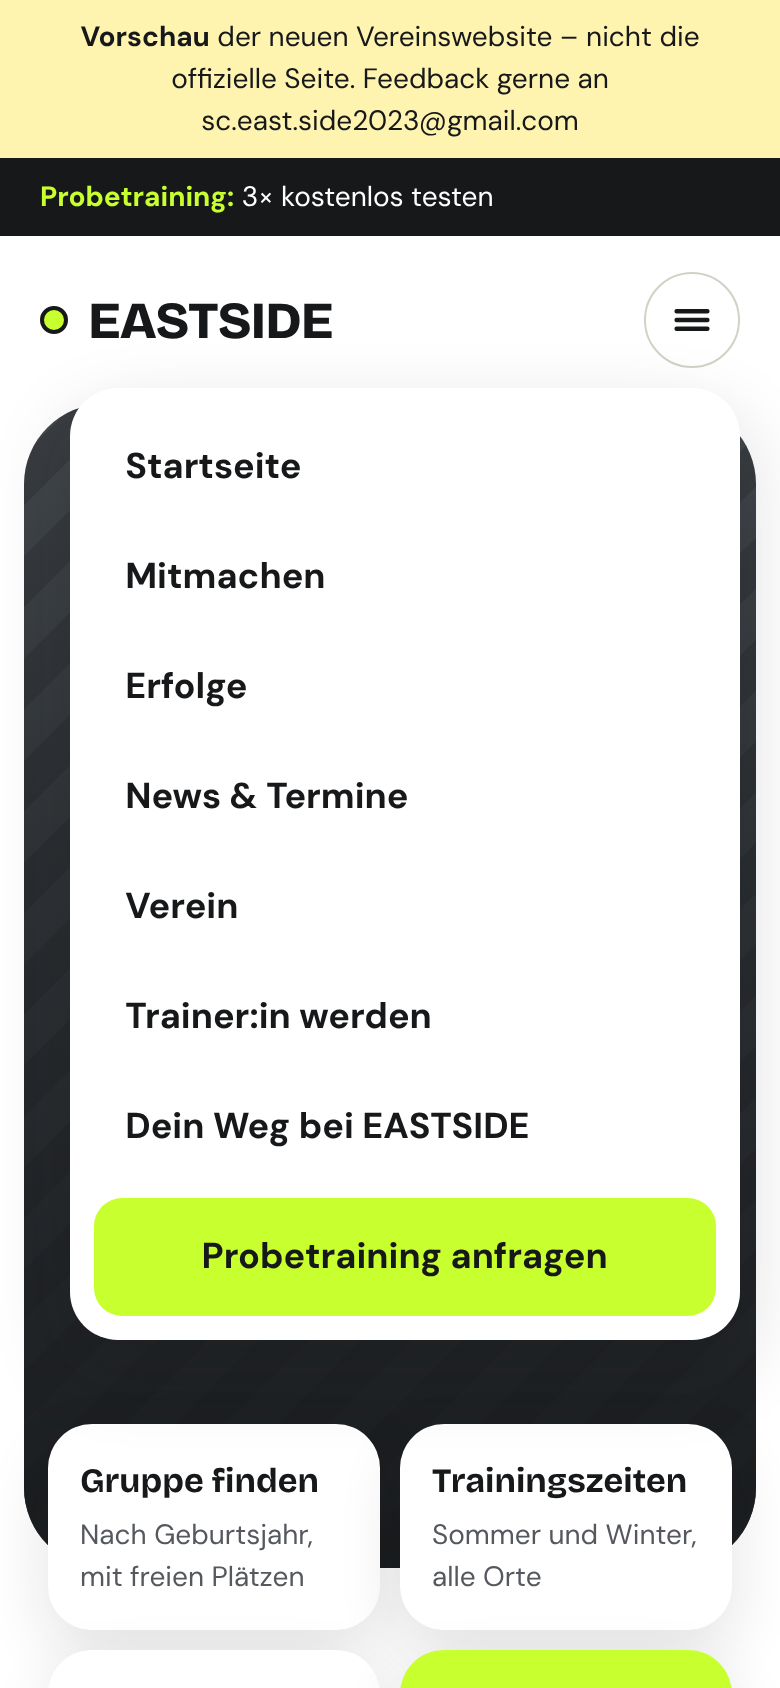
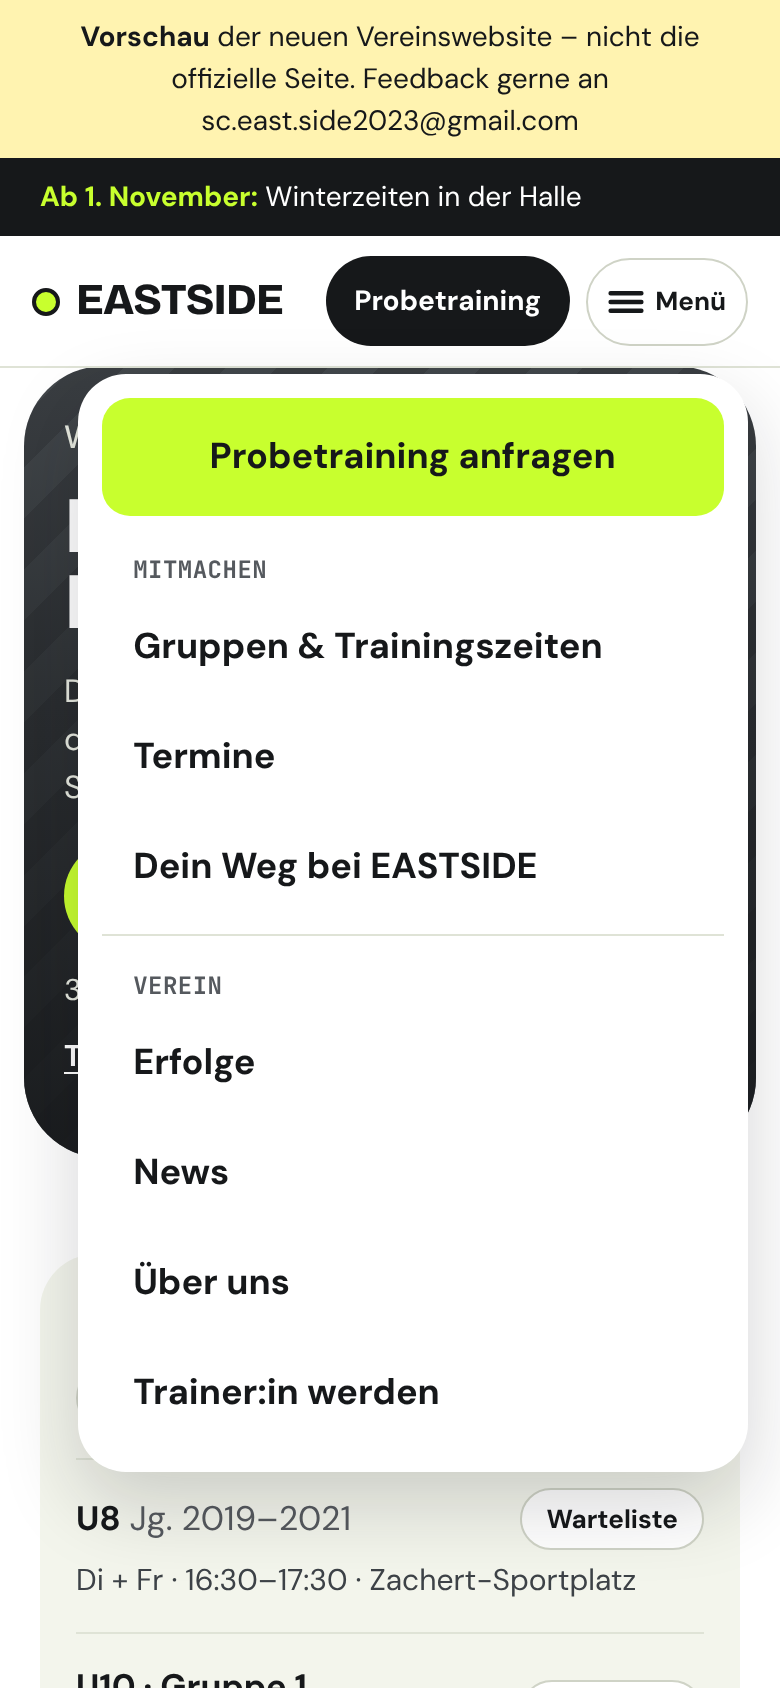
Startseite mobil: Probetraining als Hauptaktion, Menü nach Aufgaben
Feedback von Dejvid (Handy):
- NEU-Pille im Hero mobil ausgeblendet
- „Passende Gruppe finden"/„Über uns" mobil ersetzt durch eine
  Hauptaktion „Probetraining anfragen" plus Textlink zu den
  Trainingszeiten direkt darunter
- Schnellzugriff-Kacheln mobil entfernt; Gruppen & Zeiten folgen
  ohnehin direkt unter dem Hero

Hamburger-Menü nach Aufgaben gegliedert (Probetraining oben,
Mitmachen: Gruppen & Zeiten, Termine, Dein Weg; Verein: Erfolge,
News, Über uns, Trainer:in) und mit Wort „Menü" ab 385 px.
Mobiler Kopf passt jetzt auch bei 360–390 px in den Seitenrand.
Desktop bleibt unverändert. Review-Screenshots ohne echte Fotos.

Claude-Session: https://claude.ai/code/session_01FXsfLWSKaLmAg7j4KVCAef

diff --git a/src/styles/global.css b/src/styles/global.css
@@ -105,16 +105,26 @@ p { margin: 0; }
   .header-cta { margin-left: auto; min-height: 44px; padding: 10px 14px; font-size: 14px; }
   .menu-panel { max-height: calc(100svh - 80px); overflow-y: auto; }
 }
-@media (max-width: 759px) { .logo { font-size: 22px; gap: 8px; } .menu-toggle summary { width: 44px; height: 44px; } }
 @media (max-width: 349px) { .header-cta { display: none; } }
 
 .menu-toggle { position: relative; }
-.menu-toggle summary { list-style: none; width: 48px; height: 48px; border-radius: 999px; border: 1px solid var(--line-2); display: flex; align-items: center; justify-content: center; cursor: pointer; }
+.menu-toggle summary { list-style: none; min-width: 48px; height: 48px; padding: 0 16px 0 14px; gap: 6px; border-radius: 999px; border: 1px solid var(--line-2); display: flex; align-items: center; justify-content: center; cursor: pointer; font-weight: 700; font-size: 15px; }
 .menu-toggle summary::-webkit-details-marker { display: none; }
+@media (max-width: 759px) {
+  .logo { font-size: 22px; gap: 8px; }
+  .site-header .wrap { padding-left: 16px; padding-right: 16px; }
+  .header-cta { padding: 10px 12px; }
+  .menu-toggle summary { min-width: 44px; height: 44px; padding: 0 10px 0 8px; gap: 4px; font-size: 13px; }
+}
+/* „Menü" als Wort nur, wenn neben Logo und Probetraining-Button genug Platz ist */
+@media (max-width: 384px) { .menu-toggle summary { padding: 0; } .menu-word { display: none; } }
 .menu-panel { position: absolute; right: 0; top: 58px; z-index: 50; width: min(86vw, 340px); background: #fff; border-radius: 24px; box-shadow: 0 16px 40px rgba(22,24,26,.18); padding: 12px; display: flex; flex-direction: column; }
 .menu-panel a { padding: 14px 16px; border-radius: 14px; font-weight: 700; font-size: 18px; }
 .menu-panel a:hover { background: var(--soft); color: var(--ink); }
-.menu-panel .btn { margin-top: 8px; }
+.menu-panel .btn { margin-bottom: 4px; }
+.menu-panel .menu-label { color: var(--muted); padding: 14px 16px 2px; }
+.menu-panel .menu-label ~ .menu-label { border-top: 1px solid var(--line); margin-top: 6px; padding-top: 16px; }
+.menu-panel a[aria-current="page"] { background: var(--soft); }
 
 /* Hero */
 .hero { position: relative; border-radius: var(--radius-lg); overflow: hidden; min-height: 560px; display: flex; align-items: flex-end; color: #fff; }
@@ -309,6 +319,7 @@ p { margin: 0; }
 .prose code { font-family: var(--mono); font-size: 0.85em; background: var(--soft); padding: 2px 6px; border-radius: 6px; }
 .nowrap { white-space: nowrap; }
 .d-inline { display: none; }
+@media (min-width: 760px) { .only-mobile { display: none !important; } }
 @media (min-width: 760px) { .d-inline { display: inline; } }
 [hidden] { display: none !important; }
 fieldset { min-width: 0; }
@@ -316,8 +327,10 @@ fieldset { min-width: 0; }
   .hide-mobile { display: none !important; }
   .hero .ph { font-size: 0; }
   .hero { min-height: 0; }
-  .hero-body { padding: 24px 20px 80px; gap: 14px; }
-  .quicklinks { margin-top: -56px; }
+  .hero-body { padding: 24px 20px 28px; gap: 14px; }
+  .hero-body .btn-row .btn { width: 100%; }
+  .hero .hero-cta-note { margin-top: -6px; display: flex; flex-wrap: wrap; align-items: center; column-gap: 14px; font-size: 15px; color: var(--soft-2); }
+  .hero-cta-note a { display: inline-flex; align-items: center; min-height: 44px; color: #fff; font-weight: 700; text-decoration: underline; text-underline-offset: 3px; }
   .section-head { margin-bottom: 20px; }
   .card-body { padding: 18px 20px 22px; }
   .card-outline, .card-soft { padding: 24px 20px; }
@@ -378,8 +391,6 @@ fieldset { min-width: 0; }
   .table-cards .s-winter { grid-row: 4; color: var(--muted); }
   [data-saison="winter"] .table-cards .s-winter { grid-row: 3; color: inherit; }
   [data-saison="winter"] .table-cards .s-sommer { grid-row: 4; color: var(--muted); }
-  .quicklinks a strong { font-size: 17px; hyphens: auto; overflow-wrap: break-word; }
-  .quicklinks a { padding: 16px; }
 }
 h1, h2, h3 { hyphens: auto; overflow-wrap: break-word; }
 .form { grid-template-columns: minmax(0, 1fr); }
